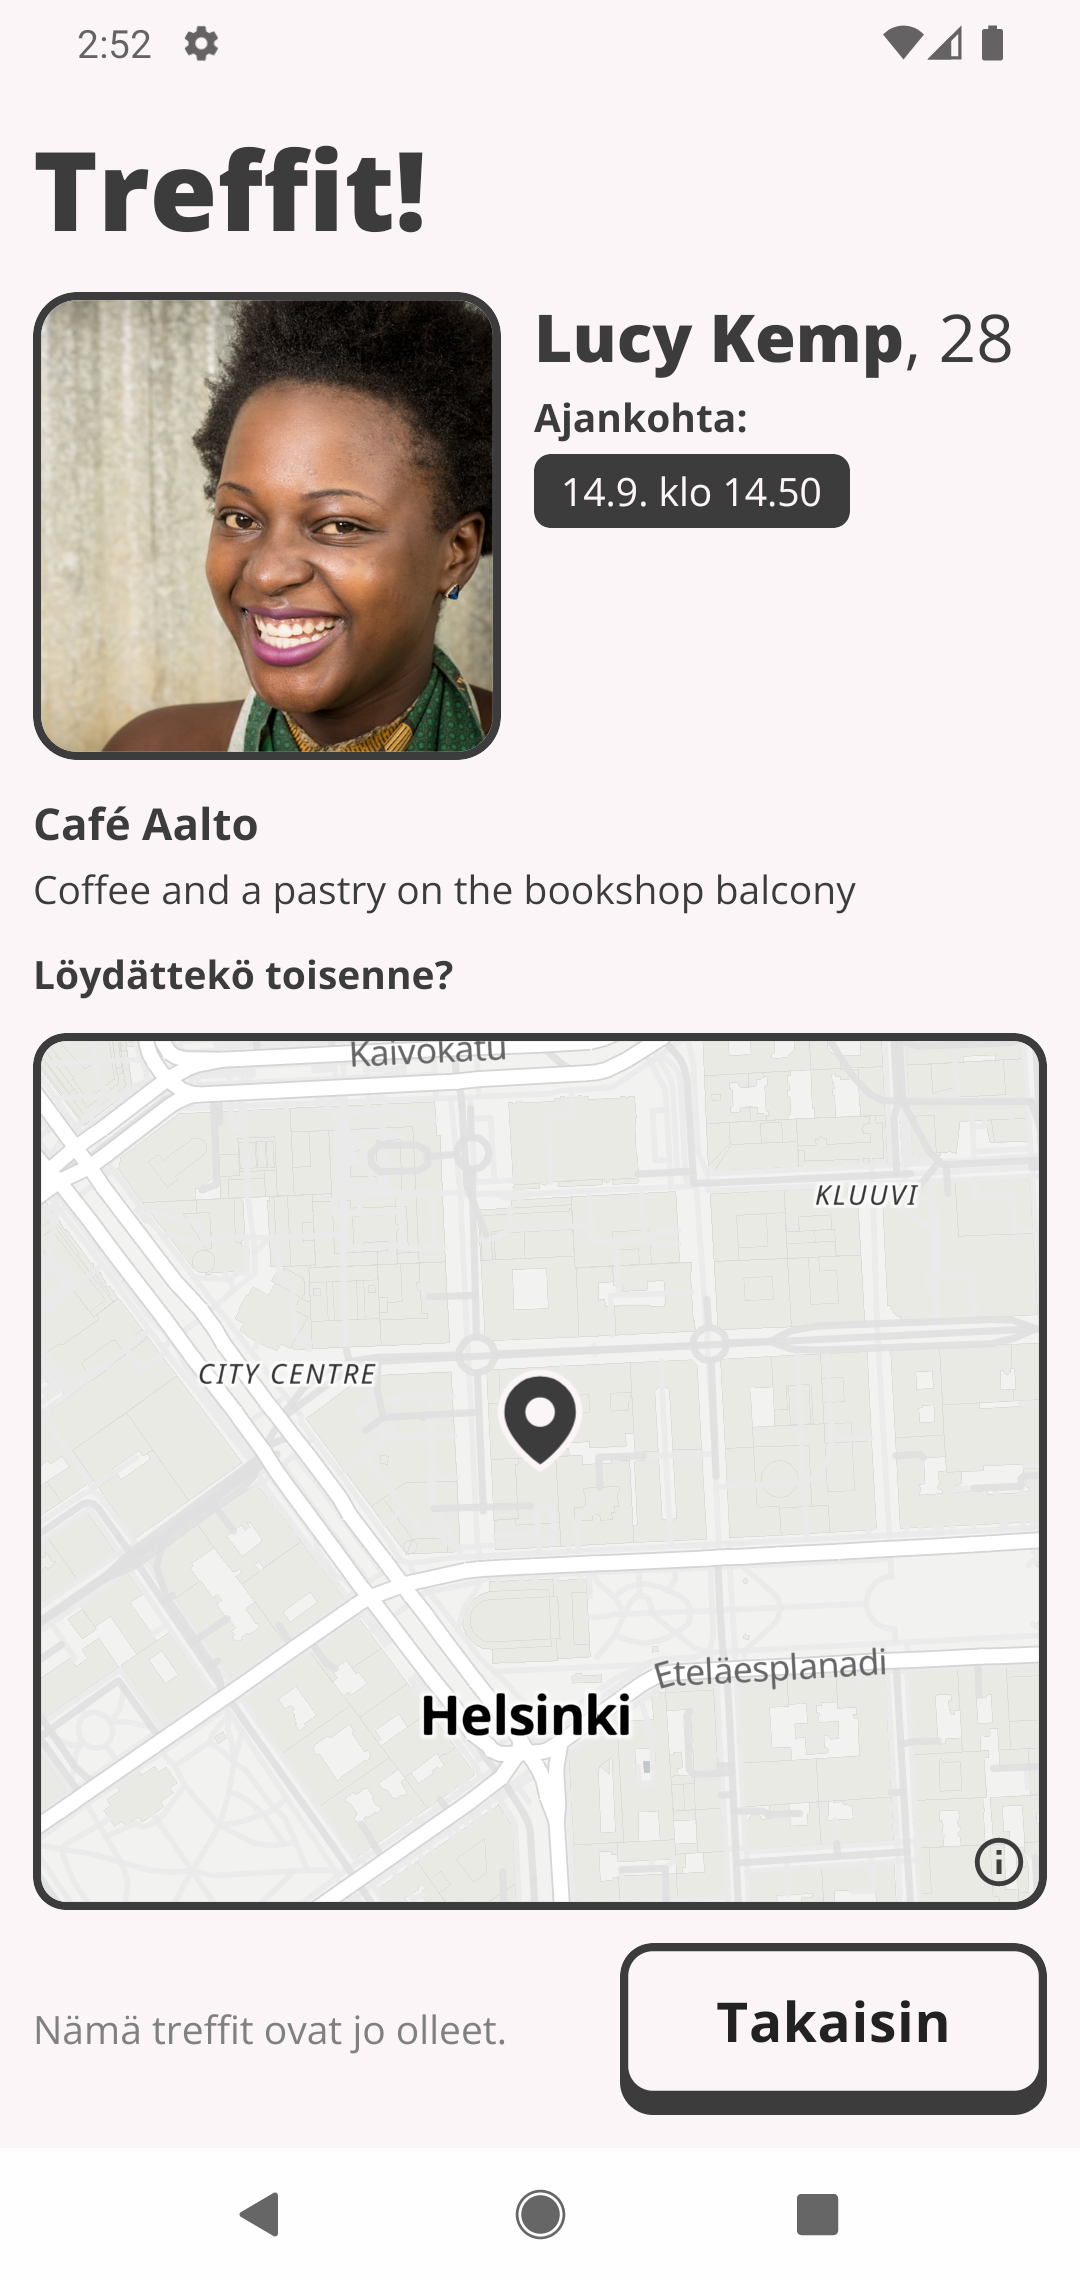
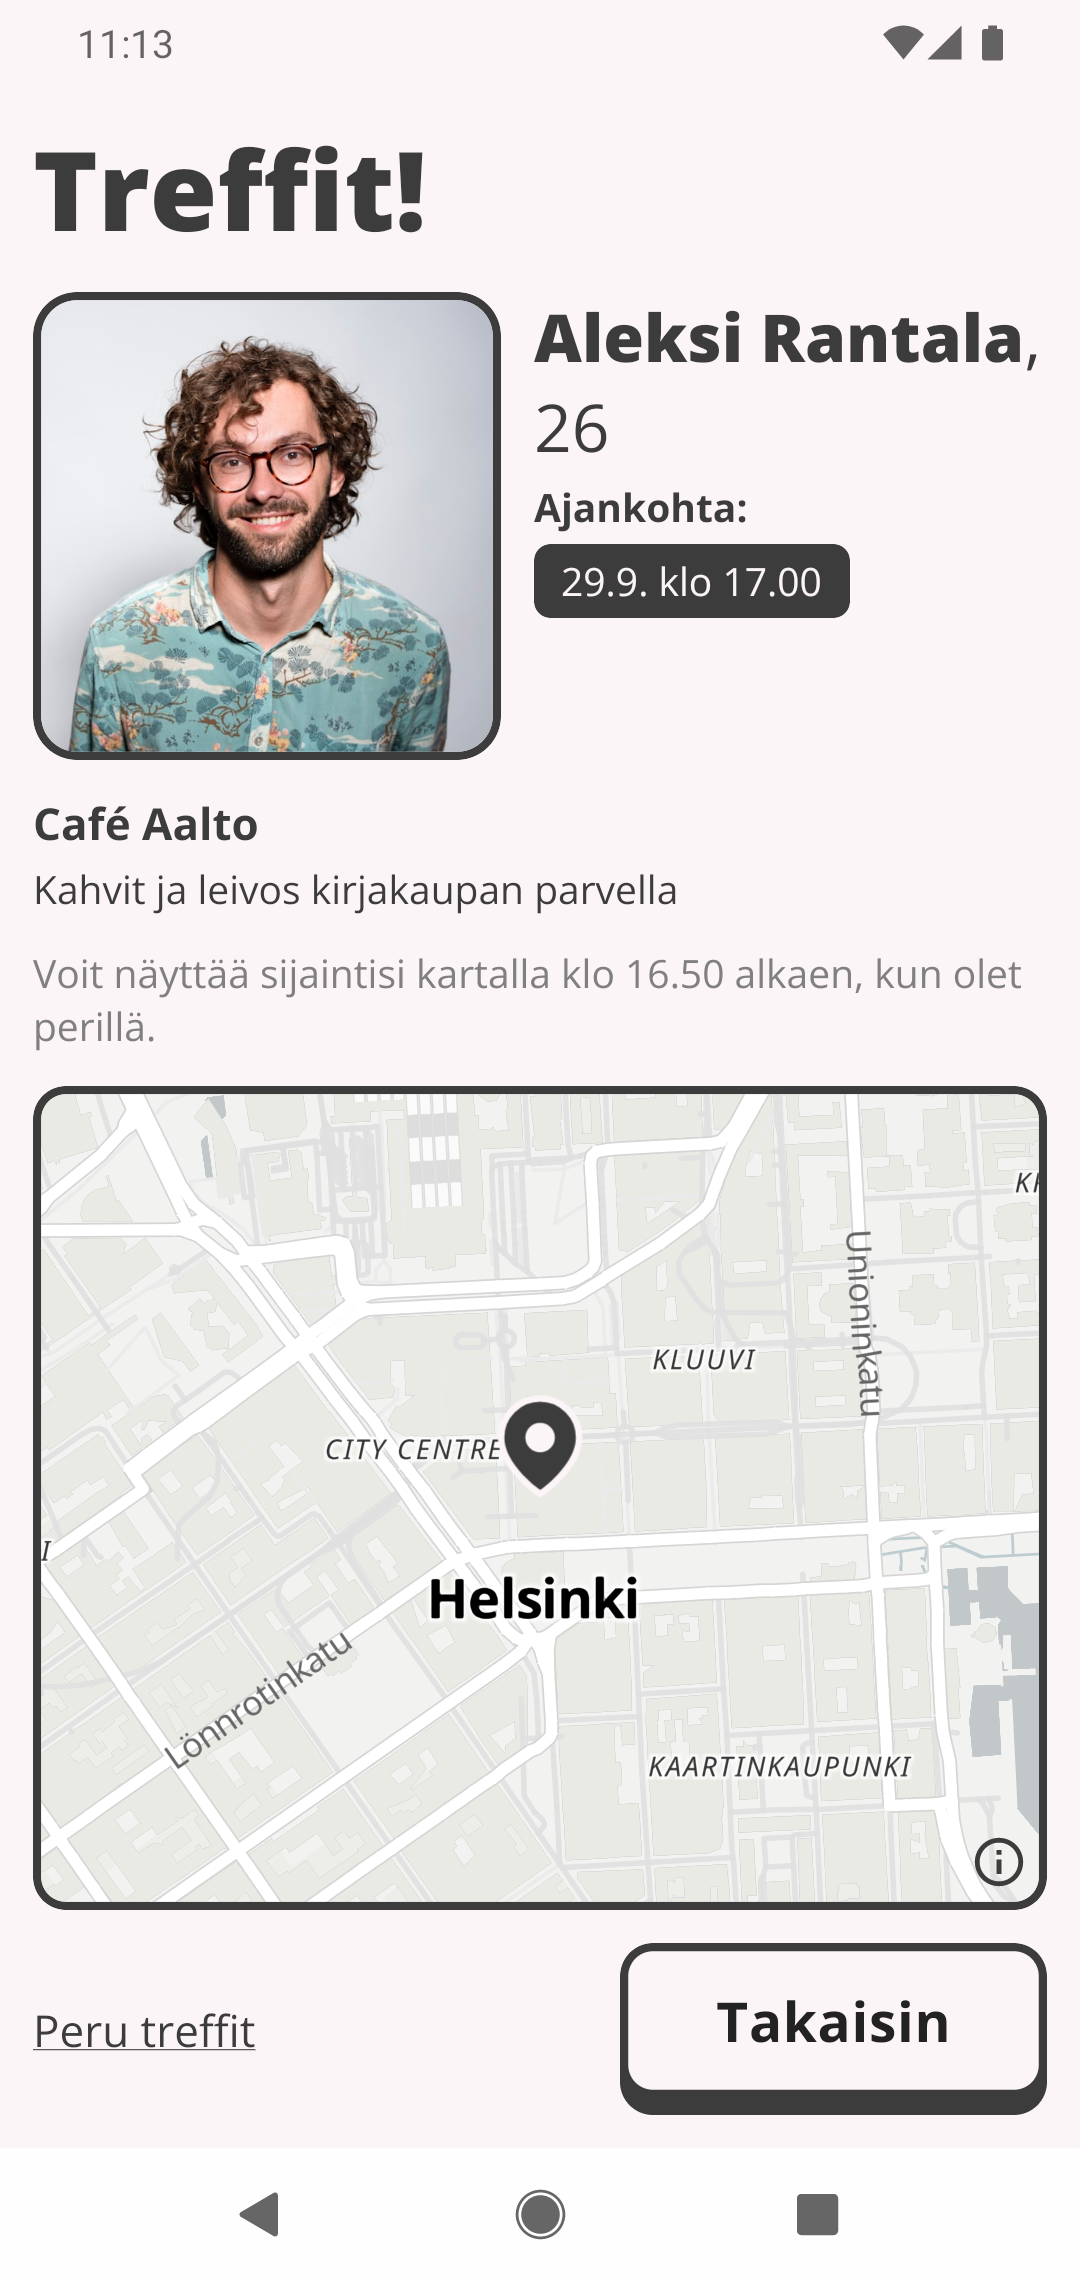
site: /en draws the English app in the phone frames, and the date is upcoming
The step cards and /nain-se-toimii showed the Finnish app on /en. They now take
the English still of each screen where one exists, falling back to Finnish for
asetukset and treffit. The date screen on both languages is the upcoming date,
without the past-date footnote the old still carried.

Claude-Session: https://claude.ai/code/session_01GD9L6NkBiCqNs6T5pZN8hJ

diff --git a/src/assets/screens.ts b/src/assets/screens.ts
@@ -20,6 +20,11 @@ import feedback from './screens/feedback.png';
 import platter from './screens/platter.png';
 import story from './screens/story.png';
 import treffit from './screens/treffit.png';
+import dateEn from './screens/date-en.png';
+import feedbackEn from './manual/en/feedback.png';
+import invitationEn from './manual/en/invitation.png';
+import platterEn from './manual/en/platter.png';
+import storyEn from './screens/story-en.png';
 
 export const shots = {
   treffit,
@@ -30,6 +35,25 @@ export const shots = {
   asetukset,
   date,
 } as const;
+
+/**
+ * The English app, for `/en`, where there is an English still of the screen. A screen
+ * missing here falls back to the Finnish one: `asetukset` and `treffit` have no English
+ * still yet. Three are the manual's own English stills, read where they are, so a
+ * reshoot of the manual reaches the front page too.
+ */
+const shotsEn: Partial<Record<keyof typeof shots, ImageMetadata>> = {
+  story: storyEn,
+  platter: platterEn,
+  invitation: invitationEn,
+  feedback: feedbackEn,
+  date: dateEn,
+};
+
+/** The screens in a page's language, Finnish where English has none. */
+export function shotsFor(lang: string): Record<keyof typeof shots, ImageMetadata> {
+  return lang === 'en' ? { ...shots, ...shotsEn } : shots;
+}
 
 /**
  * The colour the app paints behind each screen, for the phone frame to inset it on.

diff --git a/docs/pictures.md b/docs/pictures.md
@@ -65,7 +65,7 @@ failing — about any whose sidecar's `commit` predates a change under `pilke-ap
 | Page | Pictures, in the order they appear |
 | --- | --- |
 | `/404.html/` | none |
-| `/en.html/` | `hero-cutout-en` 1400px<br>`start-story-narrow-en` 900px<br>`platter` 460px<br>`invitation` 460px<br>`date` 460px<br>`feedback` 460px<br>`loop-calendar-en` 1800px<br>`safety-date-en` 1100px<br>`beta-invitation-en` 1000px |
+| `/en.html/` | `hero-cutout-en` 1400px<br>`start-story-narrow-en` 900px<br>`platter` 460px<br>`invitation` 460px<br>`date-en` 460px<br>`feedback` 460px<br>`loop-calendar-en` 1800px<br>`safety-date-en` 1100px<br>`beta-invitation-en` 1000px |
 | `/en/guide.html/` | none |
 | `/en/guide/ehdokkaat.html/` | `en/platter` 560px<br>`en/cooldown-nodraw` 560px |
 | `/en/guide/kutsut.html/` | `en/invitation` 560px<br>`en/sent` 560px |
@@ -80,7 +80,7 @@ failing — about any whose sidecar's `commit` predates a change under `pilke-ap
 | `/en/kayttoehdot.html/` | none |
 | `/en/kysyttya.html/` | none |
 | `/en/lapsiturvallisuus.html/` | none |
-| `/en/nain-se-toimii.html/` | `story` 500px<br>`platter` 500px<br>`date` 500px |
+| `/en/nain-se-toimii.html/` | `story-en` 500px<br>`platter` 500px<br>`date-en` 500px |
 | `/en/tietojen-poisto.html/` | none |
 | `/en/tietosuoja.html/` | none |
 | `/en/turvallisuus.html/` | `asetukset` 520px |
@@ -120,7 +120,9 @@ that are visible, so a change to any of them can be traced back to the pictures 
 | `treffit` | Home, populated | `screenshots.yaml` | **The balance counter: the rose slots and the `n/5` figure.** The wordmark, three stacks of match cards with partner photos, names, ages, venues and timeslot chips, the `Loyda treffit!` button, the tab bar. The only picture on this site with the currency in it |
 | `platter` | Candidates | `screenshotPlatter.yaml` | A candidate's photo card, name and age, the times both people share, the activity chips, the `Ehdota!` button, the pager dots. Drawn on the brand yellow, so a change to that colour shows here |
 | `invitation` | Invitation received | `screenshots.yaml` | The sender's photo card, the timeslots offered as chips, the venue, the map, and the two answers: `Hylkaa` and `Sovittu!` |
-| `date` | An agreed date | `screenshotDate.yaml` | The partner card, the venue and its description, the map, the location-sharing line, the back control |
+| `date` | An agreed date, upcoming | `pilke-app/.maestro/manual/dateUpcoming.yaml`, the same still as `scripts/photos/stills/date-fi.png` | The partner card, the venue and its description, the map, the location-sharing line, `Peru treffit` and the back control |
+| `date-en` | An agreed date, upcoming, English | `manual/dateUpcomingEn.yaml`, the same still as `scripts/photos/stills/date-en.png` | The same date in English, `Cancel the date` and `Back`. Drawn on `/en` in place of `date` |
+| `story-en` | Story test, first question, English | the same still as `scripts/photos/stills/story-en.png` | The first question in English and `Continue`. Drawn on `/en` in place of `story` |
 | `feedback` | Date feedback | `screenshotFeedback.yaml` | The partner card with the date's time, one feedback question and its `Kylla` / `Ei` answers |
 | `story` | Story test, first question | `screenshotStory.yaml` | The wordmark on the yellow onboarding ground, the progress dots, the question and its options, `Jatka` |
 | `asetukset` | Settings, Safety open | `screenshots.yaml` | The Safety section's whole explanation, the trusted-contact field and its save button, the tab bar. The most copy of any picture here, so it goes stale on wording as well as on layout |
